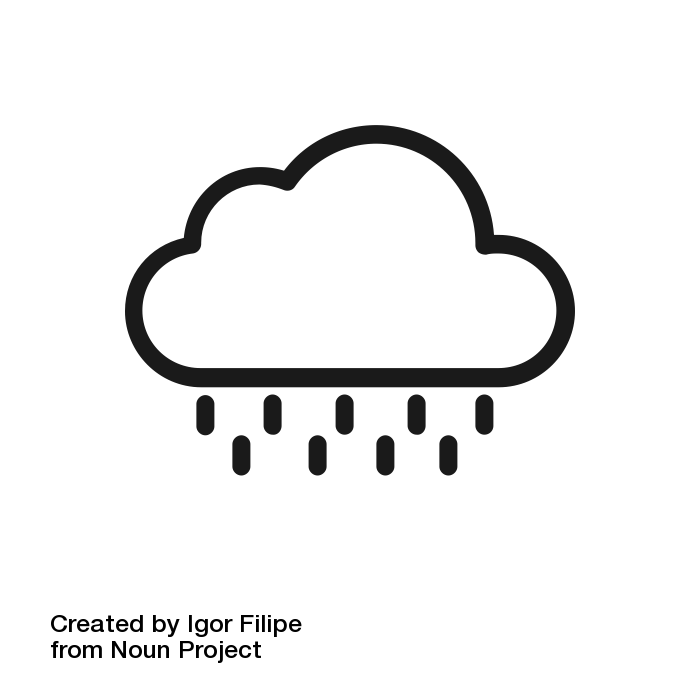
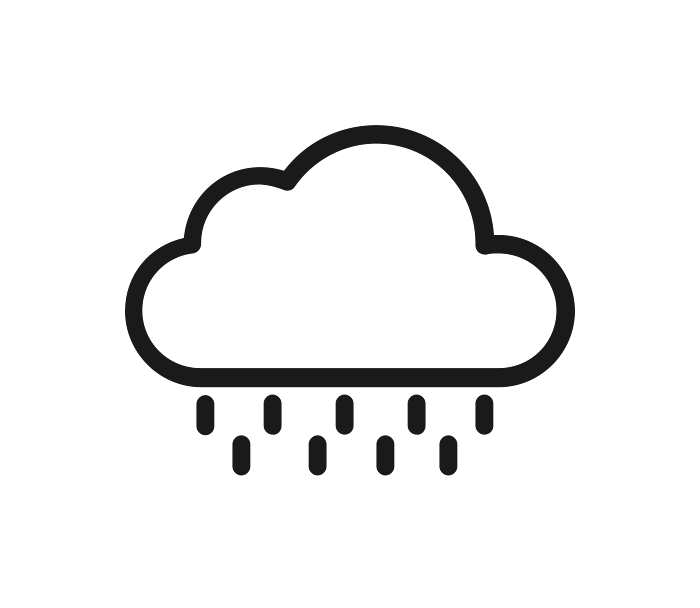
cropped images and added attribution to creators in README.md

diff --git a/README.md b/README.md
@@ -1,0 +1,16 @@
+weather icons for the following are taken from NounProject and were created by Igor Filipe:
+
+clear-day.png
+clear-night.png
+cloudy.png
+partly-cloudy-day.png
+partly-cloudy-night.png
+rain.png
+snow.png
+wind.png
+
+Weather icons for the following are taken from NounProject and were created by Nikita Kozin:
+
+fog.png
+sleet.png
+weather.png
